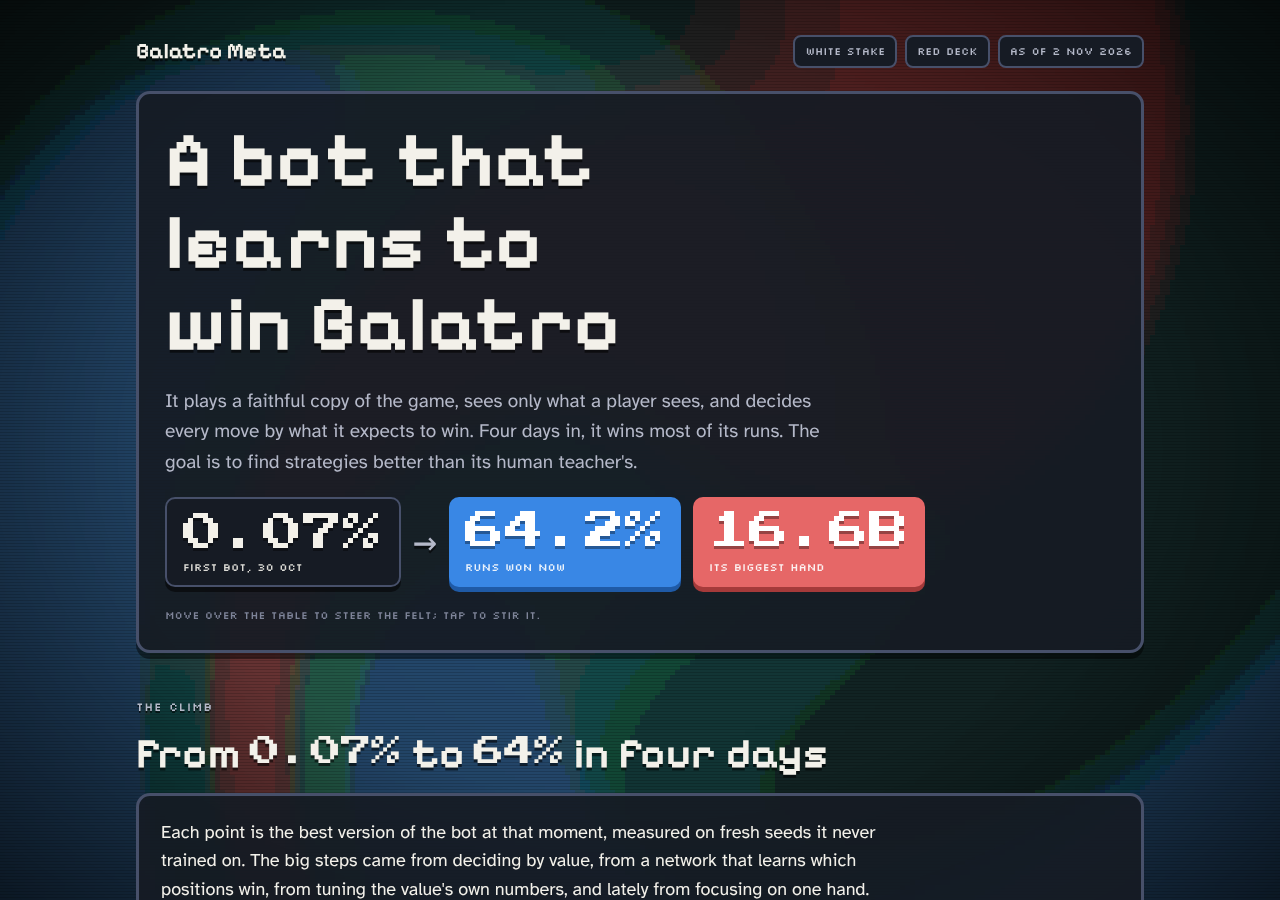
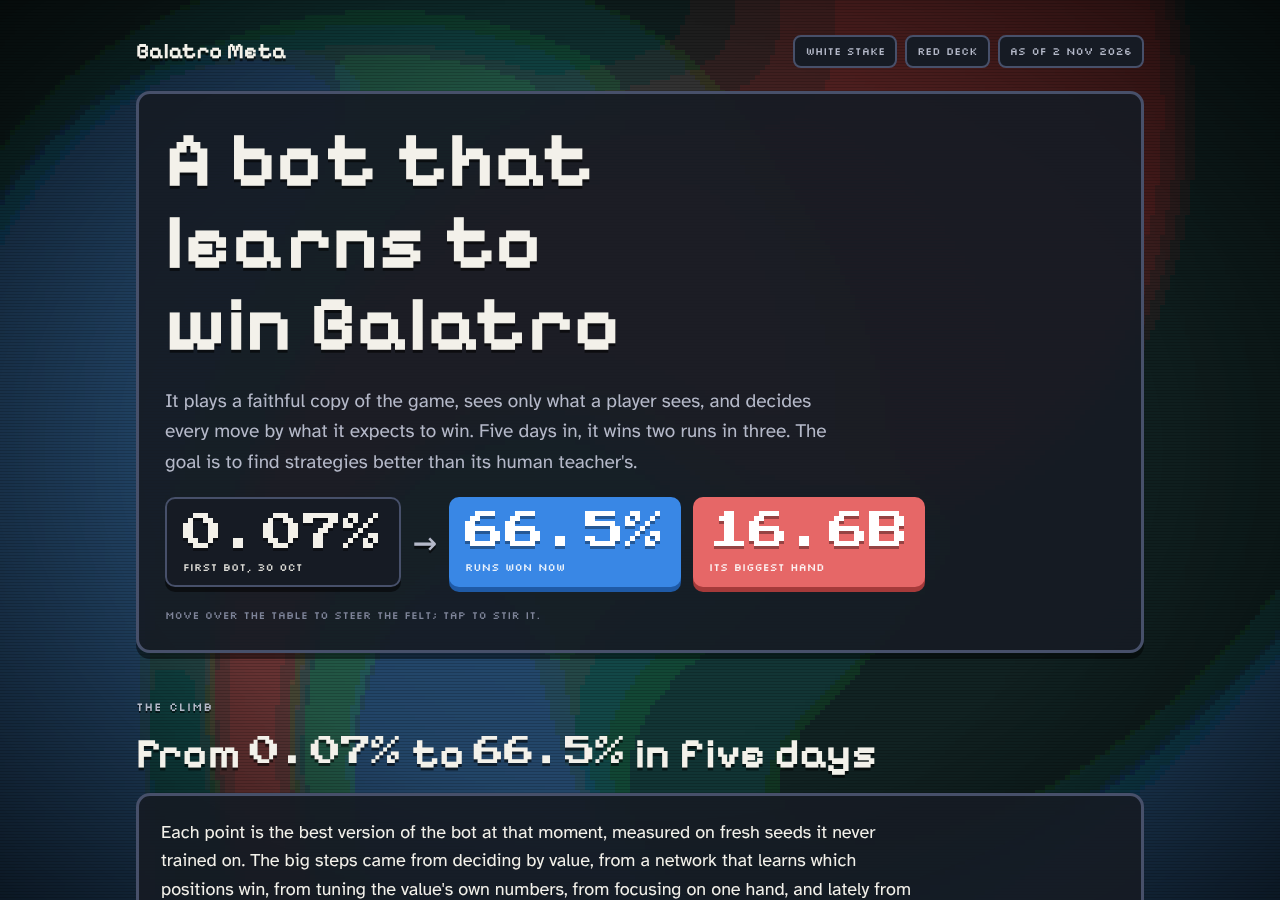
The project page and README with the overnight results
The page's climb gains two points: the networks given more say (weight
2.5: 66.46% of the first 8,000 usual seeds) and the exam (66.49% of 8,000
seeds kept apart), now the headline. How it learns: rounds 7 to 10
explored, round 10 with whole builds, and their networks are no better
than round 7's; the last step came from the weight. Next: a deeper
look-ahead at the big decisions on imagined futures built from the
screen, training on every recording with wins played on into Endless,
and Black Deck at Gold Stake as a second benchmark.

Claude-Session: https://claude.ai/code/session_013ZzW9NVrmh1xzbjtgcakra

diff --git a/docs/index.html b/docs/index.html
@@ -152,11 +152,11 @@ footer .wrap { padding-block: 40px 40px; font-family: var(--label); font-size: 1
     </div>
     <div class="panel hero">
       <h1>A bot that learns to win Balatro</h1>
-      <p class="lede">It plays a faithful copy of the game, sees only what a player sees, and decides every move by what it expects to win. Four days in, it wins most of its runs. The goal is to find strategies better than its human teacher's.</p>
-      <div class="score" aria-label="From 0.07% to 64.2% of runs won; its biggest hand scored 16.6 billion">
+      <p class="lede">It plays a faithful copy of the game, sees only what a player sees, and decides every move by what it expects to win. Five days in, it wins two runs in three. The goal is to find strategies better than its human teacher's.</p>
+      <div class="score" aria-label="From 0.07% to 66.5% of runs won; its biggest hand scored 16.6 billion">
         <div class="box plain" tabindex="0"><span class="v num">0.07%</span><span class="k">First bot, 30 Oct</span></div>
         <span class="op" aria-hidden="true">→</span>
-        <div class="box chips" tabindex="0"><span class="v num">64.2%</span><span class="k">Runs won now</span></div>
+        <div class="box chips" tabindex="0"><span class="v num">66.5%</span><span class="k">Runs won now</span></div>
         <div class="box mult" tabindex="0"><span class="v num">16.6B</span><span class="k">Its biggest hand</span></div>
       </div>
       <p class="hint">Move over the table to steer the felt; tap to stir it.</p>
@@ -168,10 +168,10 @@ footer .wrap { padding-block: 40px 40px; font-family: var(--label); font-size: 1
   <section id="climb">
     <div class="wrap">
       <span class="label">The climb</span>
-      <h2>From <span class="dg">0.07%</span> to <span class="dg">64%</span> in four days</h2>
+      <h2>From <span class="dg">0.07%</span> to <span class="dg">66.5%</span> in five days</h2>
       <div class="panel">
-        <p class="col lead">Each point is the best version of the bot at that moment, measured on fresh seeds it never trained on. The big steps came from deciding by value, from a network that learns which positions win, from tuning the value's own numbers, and lately from focusing on one hand.</p>
-        <div class="chart" id="climbChart" role="img" aria-label="Line chart: share of runs won by each version of the bot, from 0.07% on 30 October to 64.2% on 2 November."></div>
+        <p class="col lead">Each point is the best version of the bot at that moment, measured on fresh seeds it never trained on. The big steps came from deciding by value, from a network that learns which positions win, from tuning the value's own numbers, from focusing on one hand, and lately from giving the networks more say against the formula. The last point is the exam: 8,000 seeds kept apart and never used to choose anything.</p>
+        <div class="chart" id="climbChart" role="img" aria-label="Line chart: share of runs won by each version of the bot, from 0.07% on 30 October to 66.5% on 3 November."></div>
         <details><summary>Show the numbers</summary><div class="tbl"><table id="climbTable"><thead><tr><th>Version</th><th>Date</th><th class="r">Runs</th><th class="r">Won</th></tr></thead><tbody></tbody></table></div></details>
         <p class="col muted" style="font-size:14px">Measured on 2,000 to 1,000,000 seeds per version; the 95% range is about ±2 points at 2,000 runs and ±0.6 at 25,000.</p>
       </div>
@@ -260,7 +260,7 @@ footer .wrap { padding-block: 40px 40px; font-family: var(--label); font-size: 1
           <div><b>Play better</b><small>The bot decides with the network's estimate. Round 4 gained 1.75 points, round 5 only 0.4.</small></div>
           <div class="new"><b>Explore</b><small>New from round 7: one decision in ten takes another option rated nearly as good, so the network sees where untried choices lead.</small></div>
         </div>
-        <p class="col muted">Without exploration, the network only learns from the choices the bot already makes, so each round can only refine its habits. That is why the gains were shrinking. Rounds 7 and 8 explored. With its full search, the bot on round 8's networks won 64.0% against 65.75% on round 7's, on the same 2,000 seeds: no gain yet, and within the noise of that many runs.</p>
+        <p class="col muted">Without exploration, the network only learns from the choices the bot already makes, so each round can only refine its habits. That is why the gains were shrinking. Rounds 7 to 10 explored, round 10 with whole builds (a quarter of its runs commit from ante 3 to one hand picked at random), and their networks are no better than round 7's. The last step came from giving the networks more say against the formula: +2.6 points on 8,000 seeds.</p>
       </div>
     </div>
   </section>
@@ -320,9 +320,9 @@ footer .wrap { padding-block: 40px 40px; font-family: var(--label); font-size: 1
       <span class="label">Next</span>
       <h2>Target: <span class="dg">90%</span> at White Stake</h2>
       <div class="next">
-        <div class="now"><h3>Today</h3><p>How much say the networks should get against the formula, measured on 8,000 seeds, where the noise is half as large.</p></div>
+        <div class="now"><h3>Today</h3><p>Looking further ahead at the big shop and pack decisions, on imagined futures built only from what's on screen, and training on every recording, with wins played on into Endless to tell strong builds from lucky ones.</p></div>
         <div><h3>The player's seeds</h3><p>A benchmark of the seeds the human player won: how many of them the bot wins too, each played several times.</p></div>
-        <div><h3>Deeper play</h3><p>If exploration stalls: a deeper search at each decision, or a network that learns to play by trial and error.</p></div>
+        <div><h3>A harder table</h3><p>Black Deck at Gold Stake as a second benchmark: one hand fewer each round, and every stake's rules at once.</p></div>
         <div><h3>Then up the stakes</h3><p>Higher stakes and the other decks, once White Stake is solved.</p></div>
       </div>
     </div>
@@ -372,7 +372,8 @@ footer .wrap { padding-block: 40px 40px; font-family: var(--label); font-size: 1
     ["Round 3 recording", "1 Nov", 25000, 49.66], ["Precise on rounds 1–3", "1 Nov", 2000, 53.40],
     ["Tuned formula", "1 Nov", 2000, 59.85], ["Round 4's networks", "1 Nov", 2000, 61.60],
     ["Round 5's networks", "1 Nov", 2000, 62.00], ["Round 6's networks", "2 Nov", 2000, 62.90],
-    ["Focus on one hand, fair skipping", "2 Nov", 8000, 64.24]
+    ["Focus on one hand, fair skipping", "2 Nov", 8000, 64.24], ["Networks get more say (weight 2.5)", "2 Nov", 8000, 66.46],
+    ["Exam: seeds kept apart", "3 Nov", 8000, 66.49]
   ];
   const notes = { 3: "Decides by value", 5: "Learned value", 10: "Tuned formula" };
   (function () {
@@ -395,7 +396,7 @@ footer .wrap { padding-block: 40px 40px; font-family: var(--label); font-size: 1
       if (notes[i]) el("text", { x: x(i) - 8, y: y(d[3]) - 12, "text-anchor": "end", "font-family": PIX, "font-size": 14, fill: "var(--ink)" }, svg, notes[i]);
     });
     const last = climb[climb.length - 1];
-    el("text", { x: x(climb.length - 1), y: y(last[3]) - 15, "text-anchor": "end", "font-family": DIG, "font-size": 16, fill: "var(--ink)" }, svg, "64.2%");
+    el("text", { x: x(climb.length - 1), y: y(last[3]) - 15, "text-anchor": "end", "font-family": DIG, "font-size": 16, fill: "var(--ink)" }, svg, "66.5%");
     const tip = tipFor(box);
     climb.forEach((d, i) => {
       const hit = el("rect", { x: x(i) - 18, y: T, width: 36, height: H - T - B, fill: "transparent" }, svg);

diff --git a/README.md b/README.md
@@ -30,7 +30,8 @@ plays and learns, and what's next. GitHub Pages serves it from `main`, folder `/
 
 ## Where it stands
 
-White Stake, Red Deck: the teacher bot wins about 64% of runs on seeds it has never played (64.2% of 8,000).
+White Stake, Red Deck: the teacher bot wins about two runs in three on seeds it has never played: 66.5% of the
+exam's 8,000 seeds, which are kept apart and never used to choose anything.
 The goal is 90%. `results/progress.jsonl` has every step on the way.
 
 ## Running it
